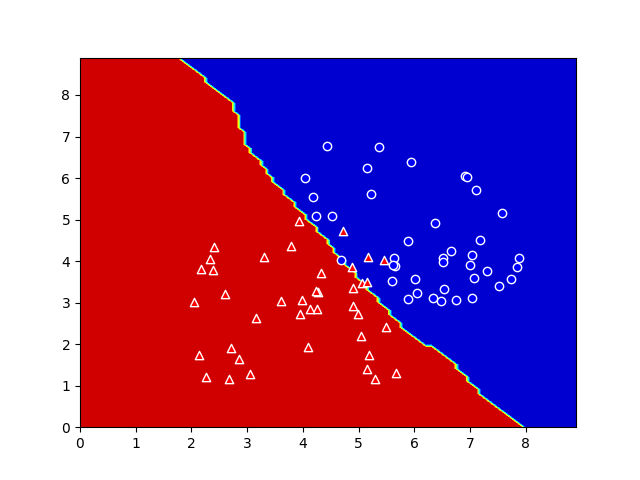
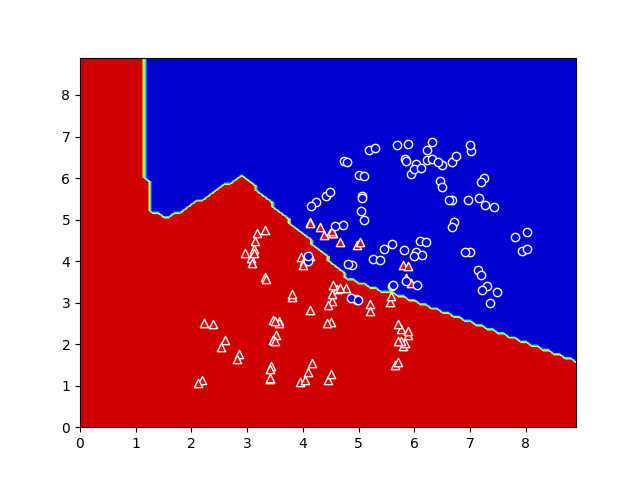
added augmented data to plot

diff --git a/code.py b/code.py
@@ -303,6 +303,10 @@ class NeuralNetwork():
         X = np.concatenate((X, augment_data(X, rand_scale)))
         Y = np.concatenate((Y, Y))
         
+        # for plot
+        self.X = X
+        self.Y = Y
+
         self.initialize_weights()
         
         num_batches = int(np.ceil(X.shape[0]/batch_size))
@@ -371,6 +375,10 @@ if __name__ == "__main__":
     # build and train model
     nn = NeuralNetwork(structure)
     nn.train(X, Y, n_epochs=1000, batch_size=8, rand_scale = 0.1, l_rate = 0.001, loss_func = "binary_cross_entropy")
+
+    # retrieve the augmented data from the model -- optional
+    X = nn.X
+    Y = nn.Y
 
     # show decision boundary on a plot
     # creating a mesh of values

diff --git a/README.md b/README.md
@@ -118,6 +118,6 @@ plt.scatter(X[idx0, 0], X[idx0, 1], marker='o', c="blue", edgecolors="white", la
 plt.show()
 ```
 
-### Decision Boundary with 92.5% training accuracy  
+### Decision Boundary with 87.5% training accuracy  
 
 ![Decision Boundary](https://github.com/saadejazz/mlp_simple/blob/master/decision_boundary.png)  
